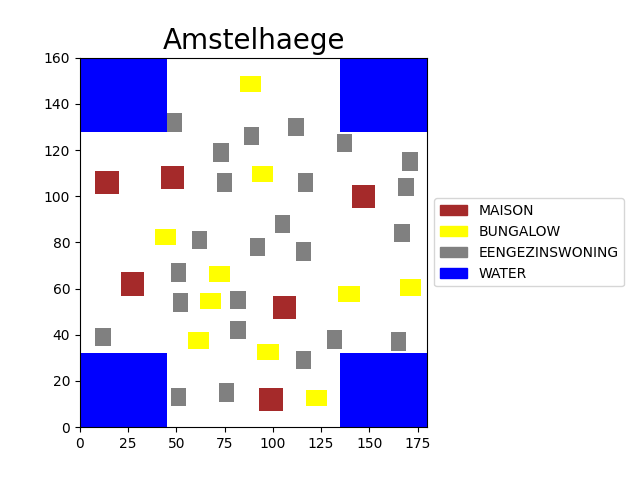
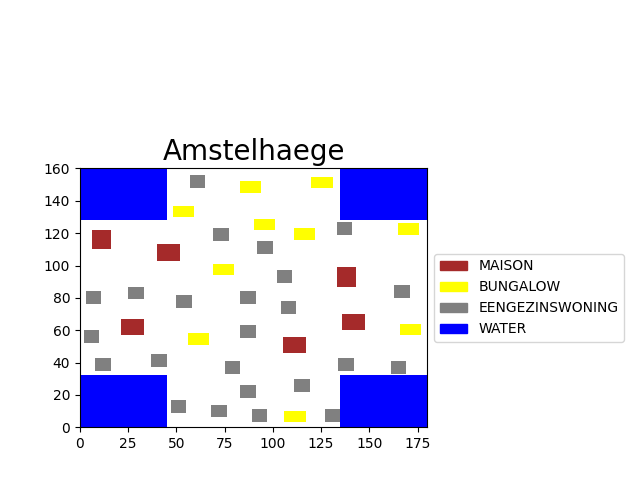
rotate function

diff --git a/code/algorithms/hillclimbing.py b/code/algorithms/hillclimbing.py
@@ -17,16 +17,19 @@ class HillClimber:
         # Take the selected houses and replace it with a new one
         for i in select_houses:
             old_house = new_map.all_houses[i]
+            if old_house.type == 'eengezinswoning':
+                new_map.all_houses[i] = Eengezinswoning(old_house.id)
+
+            if old_house.type == 'bungalow':
+                new_map.all_houses[i] = Bungalow(old_house.id)
+
+            if old_house.type == 'maison':
+                new_map.all_houses[i] = Maison(old_house.id)
+
             intersect = True
             while intersect == True:
-                if old_house.type == 'eengezinswoning':
-                    new_map.all_houses[i] = Eengezinswoning(old_house.id)
 
-                if old_house.type == 'bungalow':
-                    new_map.all_houses[i] = Bungalow(old_house.id)
-
-                if old_house.type == 'maison':
-                    new_map.all_houses[i] = Maison(old_house.id)
+                new_map.all_houses[i].random_location()
 
                 for j in range(0, len(new_map.all_waters)):
                     water = new_map.all_waters[j]
@@ -36,7 +39,7 @@ class HillClimber:
                     if intersect == True:
                         break
 
-                # Check if the new house itersects with the other houses, if so, place again
+                # Check if the new house intersects with the other houses, if so, place again
                 if intersect == False:
                     for k in range(0, len(new_map.all_houses)):
                         if k == i:
@@ -66,6 +69,37 @@ class HillClimber:
             self.map = new_map
             self.value = new_value
 
+    def iterate_rotations(self):
+
+        highest_cost = 0
+        for i in range(0,len(self.map.all_houses)):
+            cur_highest_cost   = 0    
+            house_highest_cost = None
+
+            test_map = copy.deepcopy(self.map)
+            for x in range(0,len(test_map.all_houses)):
+
+                if (test_map.all_houses[x].width == test_map.all_houses[x].length):
+                    continue
+                
+                old_house = test_map.all_houses[x]
+
+                # rotate house, check if profit gets higher                
+                if (test_map.all_houses[x].rotate(test_map.all_waters)):
+                    cost = test_map.total_cost()
+                    if (cost < cur_highest_cost):
+                        test_map.all_houses[x] = old_house
+                    else:
+                        cur_highest_cost = cost
+                        house_highest_cost = x
+                else:
+                    test_map.all_houses[x] = old_house
+
+            if (cur_highest_cost > highest_cost):
+                self.map.all_houses[house_highest_cost] = test_map.all_houses[house_highest_cost]
+        
+        self.map.total_cost()
+
     # Iterate over the hill climber alorithm as much as the user wants
     def run(self, iterations, verbose=False, mutate_houses_number=5):
         self.iterations = iterations
@@ -81,5 +115,7 @@ class HillClimber:
 
             # Accept if the new map is better
             self.check_solution(new_map, iteration)
+
+        self.iterate_rotations()
 
         return self.map

diff --git a/code/classes/models.py b/code/classes/models.py
@@ -9,10 +9,10 @@ class House():
 
     # The house class calculates the atributes of hte houses passed on to this class
     def __init__(self):
-        pass
+        self.neighbours = []
 
     # Calulates the coordinates of the corners of the houses
-    def coordinates(self, bottom_left):
+    def to_coordinates(self, bottom_left):
         # generates the remaining coordinates
         self.bottom_right = [bottom_left[0] + self.width, bottom_left[1]]
         self.top_left = [bottom_left[0] , bottom_left[1] + self.length]
@@ -50,7 +50,38 @@ class House():
 
     def random_location(self):
         self.bottom_left = [random.randint(0 + self.min_distance,(WIDTH_MAX - self.width - self.min_distance)),random.randint(0 + self.min_distance,(HEIGHT_MAX - self.length - self.min_distance))]
-        self.coordinates = self.coordinates(self.bottom_left)
+        self.coordinates = self.to_coordinates(self.bottom_left)
+
+    def rotate(self,all_waters):
+        
+        offset = int(abs(self.width - self.length) / 2)
+
+        self.bottom_left[0] = self.bottom_left[0] + int(offset/2)
+        self.bottom_left[1] = self.bottom_left[1] - int(offset/2)
+        
+        temp_width  = self.width
+        self.width  = self.length
+        self.length = temp_width
+
+        self.coordinates = self.to_coordinates(self.bottom_left)
+
+        if (self.bottom_left[0] < 0 or self.bottom_left[0] + self.width > WIDTH_MAX):
+            return False  
+              
+        if (self.bottom_left[1] < 0 or self.bottom_left[1] + self.length > HEIGHT_MAX):
+            return False
+
+        for j in range(0, len(all_waters)):
+            water = all_waters[j]
+            if (self.intersect(water)):
+                return False
+
+        for i in range(0, len(self.neighbours)):
+            other_house = self.neighbours[i]
+            if (self.intersect(other_house)):
+                return False
+
+        return True
 
 class Maison(House):
 
@@ -74,7 +105,7 @@ class Bungalow(House):
         self.id = uid
         self.min_distance = 3
         self.length = 7
-        self.width = 11
+        self.width  = 11
         self.cost = 0
         self.min_cost = 399000
         self.percent_increase = 0.04
@@ -206,6 +237,8 @@ class Map():
             house = self.all_houses[j]
             tempdict = house.__dict__
 
+            self.all_houses[j].neighbours = []
+
             # Iterate over the the other houses and calculate the smallest distance
             for i in range(0, len(self.all_houses)):
                 other_house = self.all_houses[i]
@@ -217,6 +250,9 @@ class Map():
                 # Calculate the position and the distance of the house and use this if it is the smallest distance
                 rechts,links,boven,onder = self.determine_direction(house,other_house)
                 distance = self.determine_distance(rechts,links,boven,onder,house,other_house)
+
+                if (distance < 10):
+                    self.all_houses[j].neighbours.append(other_house)
 
                 if distance < min_distance:
                     min_distance = distance

diff --git a/code/visualisation/visualize.py b/code/visualisation/visualize.py
@@ -43,7 +43,7 @@ def visualisation(output):
 
     # Add the atributes to the graph
     box = ax.get_position()
-    ax.set_position([box.x0, box.y0, box.width * 0.7, box.height])
+    ax.set_position([box.x0, box.y0, box.width * 0.7, box.height * 0.7])
     plt.title('Amstelhaege', fontsize=20)
     plt.legend(bbox_to_anchor=(1, 0.5), loc="center left", handles = patch_list)
     plt.xlim(0, WIDTH_MAX)

diff --git a/main.py b/main.py
@@ -29,7 +29,7 @@ if __name__ == "__main__":
     first_solution = int(map.total_costs)
     print('Random solution: ', first_solution)
     hillclimb = HillClimber(map)
-    map = hillclimb.run(100, mutate_houses_number=1)
+    map = hillclimb.run(1000, mutate_houses_number=1)
     better_solution = hillclimb.value
     print('Algoritm solution: ', better_solution)
 
